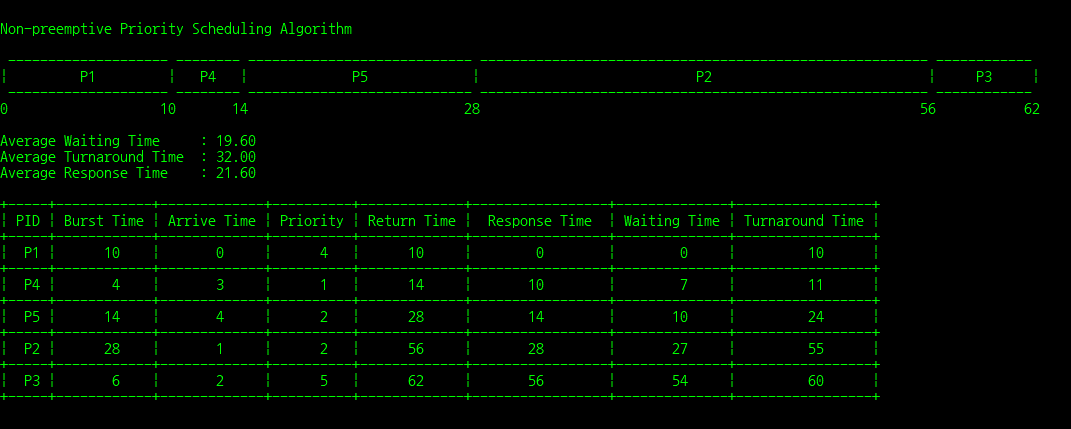
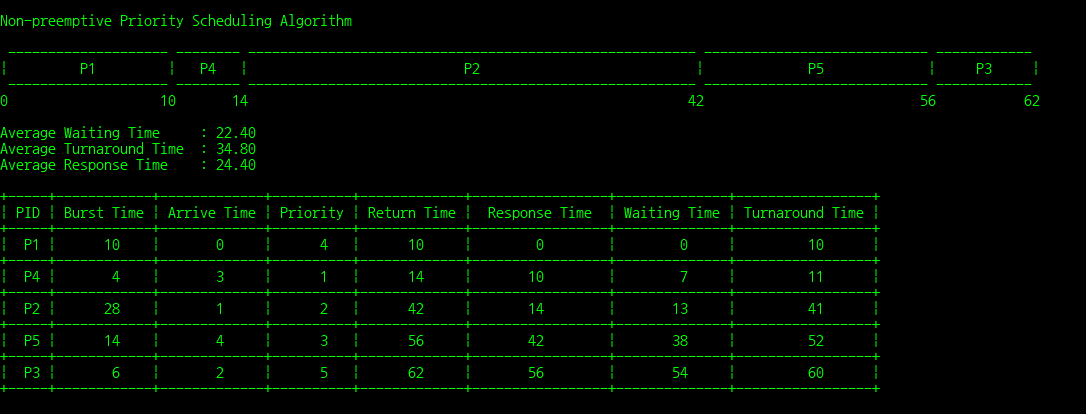
Fix Test Case 2 & Test Image

diff --git a/README.md b/README.md
@@ -29,7 +29,7 @@ Quantum : 5
 |P2|28|1|2|
 |P3|6|2|5|
 |P4|4|3|1|
-|P5|14|4|2|
+|P5|14|4|3|
 
 <br/>
 
